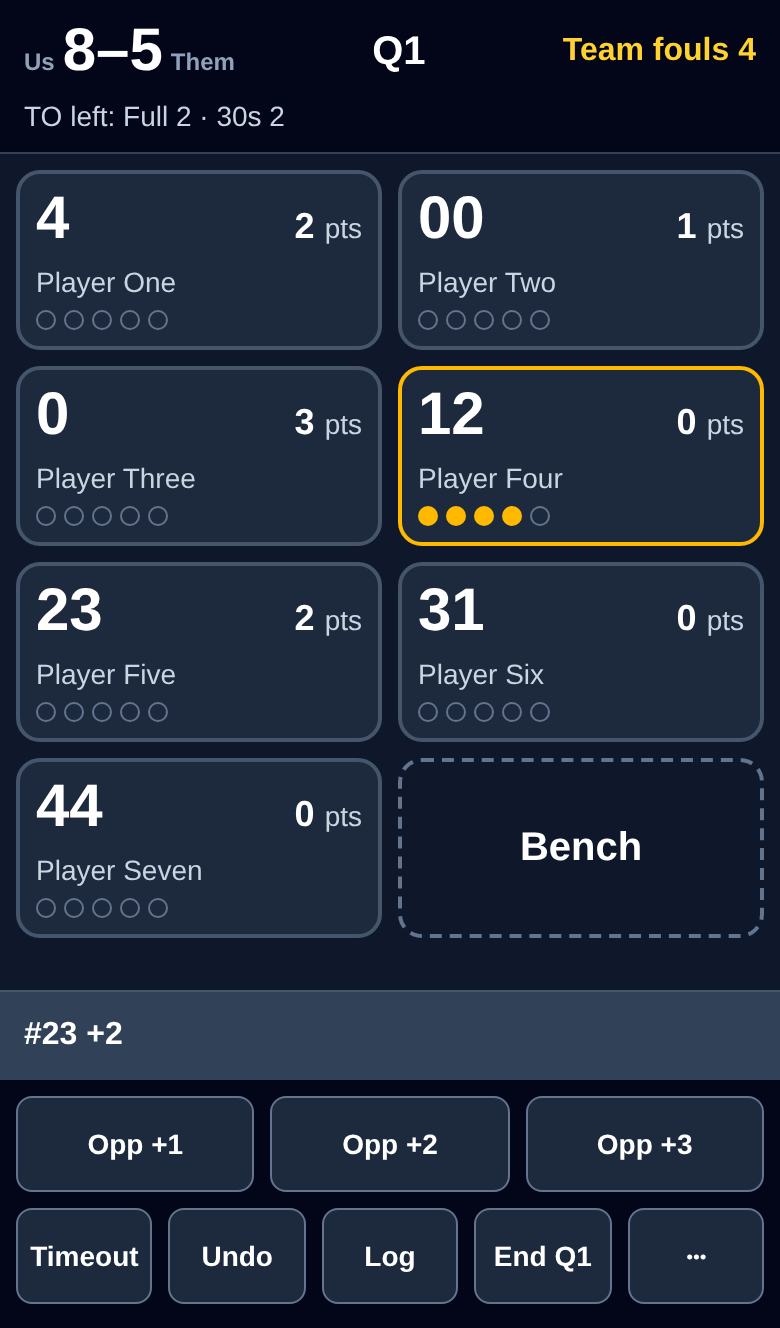
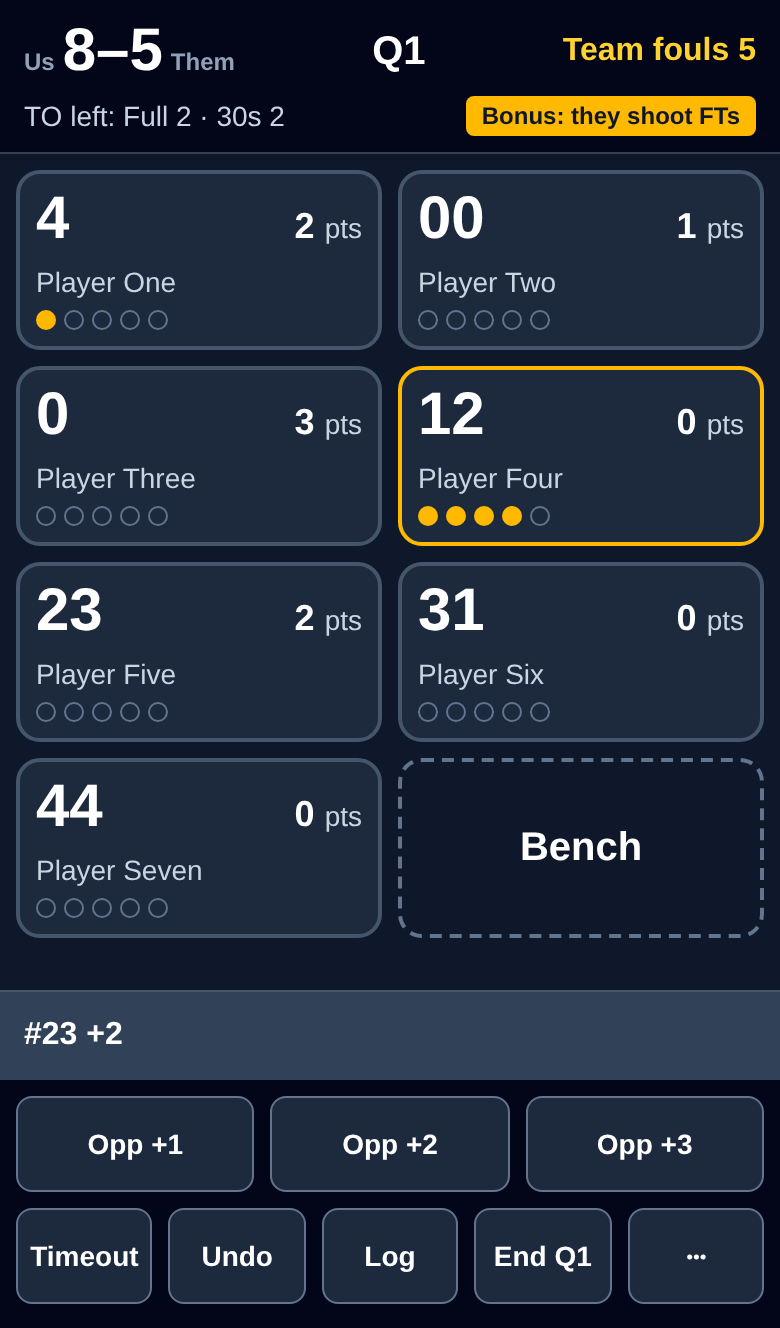
How-to shots: size guard, bonus in Reading the screen, sized lazy images

Changed region(s): [[0.5846, 0.0309, 0.9846, 0.1235], [0.0308, 0.2161, 0.0923, 0.247]]

diff --git a/scripts/howto/shots.spec.ts b/scripts/howto/shots.spec.ts
@@ -8,32 +8,41 @@ import { OPPONENT, TEAM, ui } from '../../e2e/fixture';
  */
 
 const OUT = 'public/howto';
+/** Workbox leaves any file over 2 MiB out of the precache, silently; stay well under it. */
+const MAX_BYTES = 1024 * 1024;
 
 test('How-to screenshots', async ({ page }) => {
   const app = ui(page);
   const dialog = () => page.getByRole('dialog');
+  const shot = async (name: string) => {
+    const buf = await page.screenshot({ path: `${OUT}/${name}.png` });
+    expect(buf.length, `${name}.png is ${buf.length} bytes`).toBeLessThan(MAX_BYTES);
+  };
 
   await page.goto('/');
   await app.fillSetup(OPPONENT, TEAM);
   await app.startGame();
 
-  // Reading the screen: a player at 4 fouls (amber), a timeout used, points both ways.
+  // Reading the screen: a player at 4 fouls (amber), a 5th team foul (bonus), a timeout used,
+  // points both ways.
   await app.score('Player One', '+2');
   await app.opp(2);
   await app.score('Player Three', '+3');
   for (let i = 0; i < 4; i++) await app.foul('Player Four');
+  await app.foul('Player One');
   await app.ft('Player Two', true, false);
   await app.timeout('Full');
   await app.opp(3);
   await app.score('Player Five', '+2');
   await app.expectWarning('Player Four');
-  await page.screenshot({ path: `${OUT}/reading-the-screen.png` });
+  await expect(page.getByRole('banner').getByText('Bonus: they shoot FTs', { exact: true })).toBeVisible();
+  await shot('reading-the-screen');
 
   // Mistakes: Log, with one row's fix sheet open.
   await app.openLog();
   await app.logRow(app.logSection('Q1'), app.playText('Player Five', '+2')).click();
   await expect(dialog()).toBeVisible();
-  await page.screenshot({ path: `${OUT}/mistakes.png` });
+  await shot('mistakes');
   await dialog().getByRole('button', { name: 'Cancel', exact: true }).click();
   await expect(dialog()).toHaveCount(0);
   await app.back();
@@ -42,5 +51,5 @@ test('How-to screenshots', async ({ page }) => {
   await app.endPeriod('Q1');
   await app.checkQuarter('Q1', 8, 5);
   await app.expectMatches();
-  await page.screenshot({ path: `${OUT}/end-of-quarter.png` });
+  await shot('end-of-quarter');
 });

diff --git a/src/ui/HowTo.tsx b/src/ui/HowTo.tsx
@@ -18,7 +18,7 @@ export function HowTo({ store }: { store: GameStore }) {
             {s.body.map((p) => (
               <p key={p} class="mt-1 text-slate-200">{p}</p>
             ))}
-            {s.image && <img src={s.image.src} alt={s.image.alt} width="100%" loading="lazy" class="mt-2 w-full rounded-lg border border-slate-700" />}
+            {s.image && <img src={s.image.src} alt={s.image.alt} width={780} height={1328} loading="lazy" class="mt-2 h-auto w-full rounded-lg border border-slate-700" />}
             {s.id === 'wrong' && <p class="mt-3 text-center text-xs text-slate-400">v{__APP_VERSION__}</p>}
           </section>
         ))}

diff --git a/src/ui/howto-content.ts b/src/ui/howto-content.ts
@@ -79,7 +79,7 @@ export const HOWTO_SECTIONS: HowtoSection[] = [
       'Foul dots turn amber at 4 and red at OUT. The strip at the top shows the bonus and timeouts left.',
       MARK_LEGEND,
     ],
-    image: { src: '/howto/reading-the-screen.png', alt: 'The live screen in Q1: the score and timeouts left at the top, and #12 with four amber foul dots.' },
+    image: { src: '/howto/reading-the-screen.png', alt: 'The live screen in Q1: the score, team fouls 5 with the bonus, and timeouts left at the top, and #12 with four amber foul dots.' },
   },
   {
     id: 'wrong',

diff --git a/src/core/precache.test.ts b/src/core/precache.test.ts
@@ -17,7 +17,7 @@ describe('service worker', () => {
     },
   );
   it.skipIf(text === undefined)(
-    'precaches the three How-to screenshots (Workbox skips any file over 2 MiB)',
+    'precaches the three How-to screenshots, since Workbox skips any file over 2 MiB (skipped: dist/sw.js absent, run `pnpm build` first; a stale dist/ gives a false red, which `pnpm build` fixes)',
     () => {
       for (const f of ['reading-the-screen', 'mistakes', 'end-of-quarter']) expect(text).toContain(`howto/${f}.png`);
     },

diff --git a/CLAUDE.md b/CLAUDE.md
@@ -44,7 +44,8 @@ runs as `/ux-audit`.
 - `pnpm howto:shots`: refreshes the How-to screenshots, `public/howto/*.png`, from the
   full-game fixture. `pnpm release` runs it and commits the images, so they stay current.
   An image made by hand gets a new filename and is referenced from `src/ui/howto-content.ts`;
-  the script writes only its own three filenames, so a release never overwrites it.
+  the script writes only its own three filenames, so a release never overwrites it. A
+  hand-made image also needs the screenshot map in `src/ui/howto-content.test.ts` updated.
 
 ## Style
 
